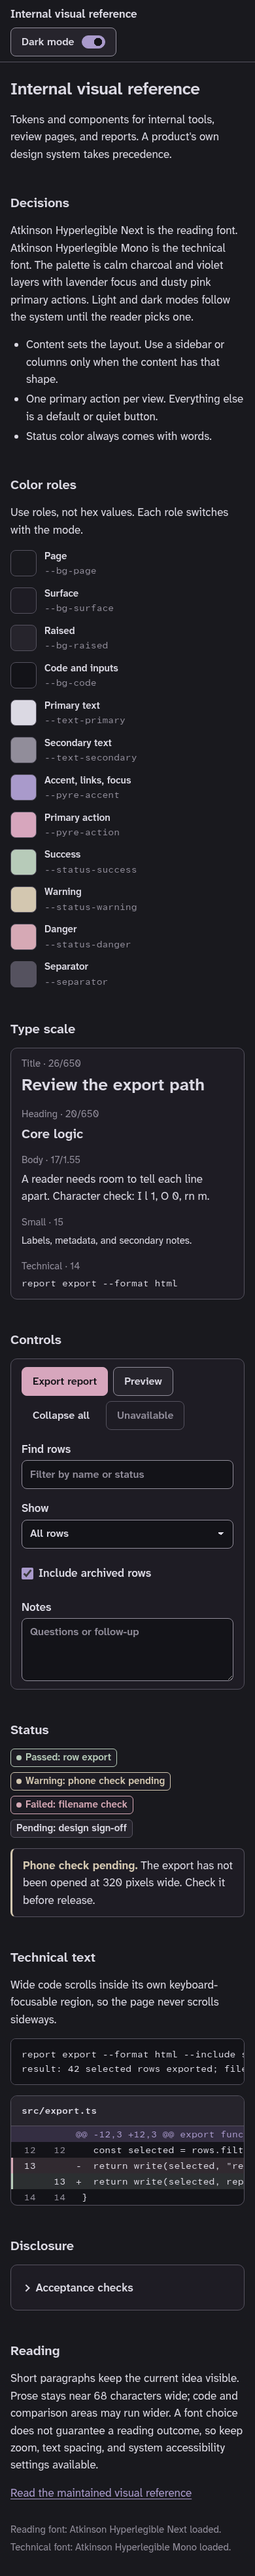
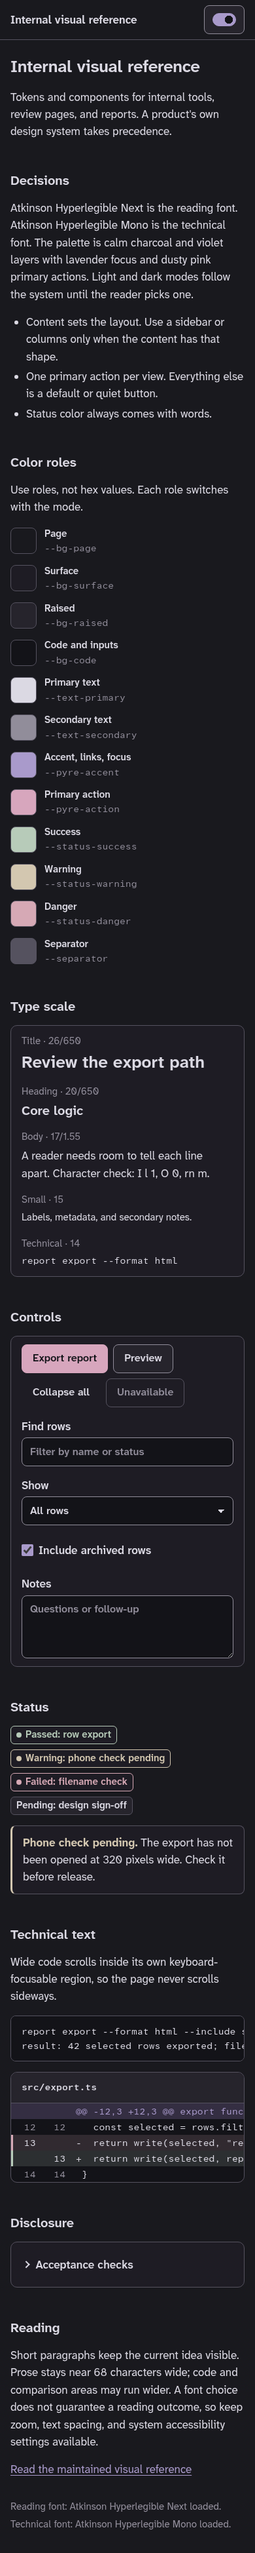
Fit the phone app bar on one row
On phones the app bar took three rows. The page title is right below
it, so phones now drop the bar's title and progress track, and the mode
switch hides its visible label while keeping "Dark mode" as its
accessible name. At 390px the bar is one row. At 320px the switch wraps
and right-aligns.

diff --git a/skills/pr-review-canvas/assets/review.css b/skills/pr-review-canvas/assets/review.css
@@ -209,7 +209,10 @@ mark { color: var(--text-primary); background: var(--pyre-message); text-decorat
 @media (max-width: 47.99rem) {
   :root { --sticky-offset: 0px; }
   main { padding: var(--space-5) var(--space-4) var(--space-6); }
-  .topbar-pr { display: none; }
+  /* The page title sits right below, so the bar keeps only progress and actions. */
+  .topbar-title, .progress-track { display: none; }
+  .topbar-actions { flex: 1 1 auto; justify-content: flex-end; }
+  .progress { margin-inline-end: auto; }
   .analysis { padding: var(--space-3) var(--space-4); }
   .finish, .orphans { padding: var(--space-4); }
   .toolbar-status { margin-inline-start: 0; }

diff --git a/skills/internal-visual-style/assets/components.css b/skills/internal-visual-style/assets/components.css
@@ -136,6 +136,9 @@ details[open] > summary::before { transform: rotate(45deg); }
 
 @media (max-width: 47.99rem) {
   .topbar { position: static; padding-inline: var(--space-4); }
+  /* Phones keep the switch and its accessible name, and drop the visible label to fit one row. */
+  .theme-toggle { padding-inline: var(--space-3); }
+  .theme-label { position: absolute; inline-size: 1px; block-size: 1px; overflow: hidden; clip-path: inset(50%); white-space: nowrap; }
   .page { padding: var(--space-5) var(--space-4) var(--space-6); }
   .panel-body { padding: var(--space-3) var(--space-4); }
 }

diff --git a/skills/internal-visual-style/assets/reference.html b/skills/internal-visual-style/assets/reference.html
@@ -36,7 +36,7 @@
   <header class="topbar">
     <p class="topbar-title">Internal visual reference</p>
     <div class="topbar-actions">
-      <button id="theme-toggle" class="theme-toggle" type="button" aria-pressed="false" hidden>Dark mode</button>
+      <button id="theme-toggle" class="theme-toggle" type="button" aria-pressed="false" hidden><span class="theme-label">Dark mode</span></button>
     </div>
   </header>
   <main id="content" class="page specimen" tabindex="-1">

diff --git a/skills/pr-review-canvas/scripts/render_review.py b/skills/pr-review-canvas/scripts/render_review.py
@@ -379,7 +379,7 @@ def render_review(review, style_dir=None):
             '<div class="topbar-actions"><div class="progress"><span class="progress-track" aria-hidden="true"><span class="progress-fill"></span></span>'
             f'<p id="progress" role="status" aria-live="polite">0 of {len(files)} reviewed</p></div>'
             '<span id="save-state" class="chip" hidden></span><a class="button" href="#feedback">Finish review</a>'
-            '<button id="theme-toggle" class="theme-toggle" type="button" aria-pressed="false" hidden>Dark mode</button></div></header>'
+            '<button id="theme-toggle" class="theme-toggle" type="button" aria-pressed="false" hidden><span class="theme-label">Dark mode</span></button></div></header>'
             '<div class="layout">' + _nav_html(review) + '<main id="main">'
             f'<header class="pr-header">{origin}<h1>{escape(pr["title"])}</h1>' + _paragraph(review.get("summary"), "lead")
             + '<ul class="pr-facts" aria-label="Snapshot">' + "".join(facts) + '</ul>'

diff --git a/skills/internal-visual-style/references/BRAND.md b/skills/internal-visual-style/references/BRAND.md
@@ -74,7 +74,7 @@ Atkinson Hyperlegible Next is the reading font. Atkinson Hyperlegible Mono is th
 The classes below are in components.css. The specimen shows each one.
 
 - **Buttons.** `button` is the default. `.primary` marks the one primary action. `.quiet` has no border or fill until hover. Every button is at least 44px tall. Toggle buttons use `aria-pressed`.
-- **Mode switch.** `.theme-toggle` keeps the label **Dark mode**. The track and `aria-pressed` show the state. Load theme.js in the head.
+- **Mode switch.** `.theme-toggle` keeps the label **Dark mode** in a `.theme-label` span. The track and `aria-pressed` show the state. On phones the label is visually hidden but stays the accessible name, so the app bar fits one row. Load theme.js in the head.
 - **Fields.** Text fields, selects, and text areas sit on the code fill with a control border. Give every field a label. A visually hidden label is acceptable only for a filter field whose placeholder states its purpose.
 - **Panels.** `.panel` with `.panel-body` padding.
 - **Chips.** `.chip` for metadata, with `.success`, `.warning`, and `.danger` variants that add a dot and a border.
